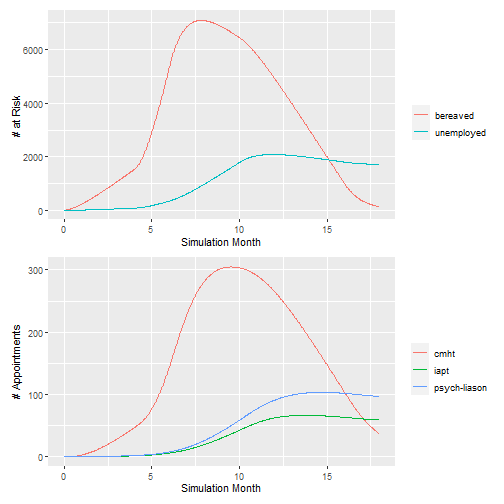
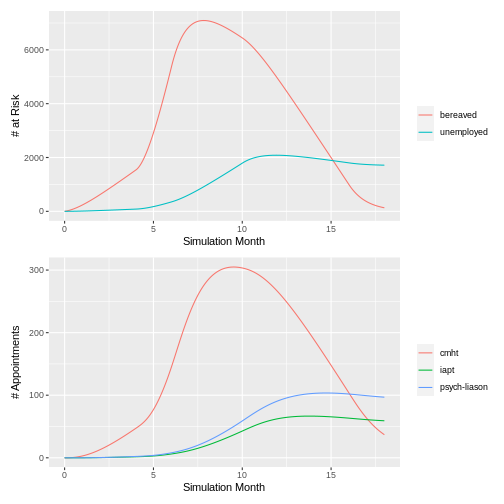
update Readme.md

diff --git a/Readme.md b/Readme.md
@@ -14,7 +14,20 @@ library(tidyverse, quietly = TRUE)
 ```
 
 ```
-## Error in library(tidyverse, quietly = TRUE): there is no package called 'tidyverse'
+## ── [1mAttaching packages[22m ─────────────────────────────────────── tidyverse 1.3.0 ──
+```
+
+```
+## [32m✔[39m [34mggplot2[39m 3.3.1     [32m✔[39m [34mpurrr  [39m 0.3.4
+## [32m✔[39m [34mtibble [39m 3.0.1     [32m✔[39m [34mdplyr  [39m 1.0.0
+## [32m✔[39m [34mtidyr  [39m 1.1.0     [32m✔[39m [34mstringr[39m 1.4.0
+## [32m✔[39m [34mreadr  [39m 1.3.1     [32m✔[39m [34mforcats[39m 0.5.0
+```
+
+```
+## ── [1mConflicts[22m ────────────────────────────────────────── tidyverse_conflicts() ──
+## [31m✖[39m [34mdplyr[39m::[32mfilter()[39m masks [34mstats[39m::filter()
+## [31m✖[39m [34mdplyr[39m::[32mlag()[39m    masks [34mstats[39m::lag()
 ```
 
 ```r
@@ -29,32 +42,13 @@ param_csv <- read_csv("sample_params.csv", col_types = "cccddddd") %>%
   unite(rowname, group:condition, sep = "_", na.rm = TRUE) %>%
   mutate_at("decay", ~half_life_factor(days, .x)) %>%
   select(-days)
-```
 
-```
-## Error in read_csv("sample_params.csv", col_types = "cccddddd") %>% unite(rowname, : could not find function "%>%"
-```
-
-```r
 params <- param_csv %>%
   select(pcnt:decay) %>%
   as.matrix() %>%
   t()
-```
-
-```
-## Error in param_csv %>% select(pcnt:decay) %>% as.matrix() %>% t(): could not find function "%>%"
-```
-
-```r
 colnames(params) <- param_csv$rowname
-```
 
-```
-## Error in eval(expr, envir, enclos): object 'param_csv' not found
-```
-
-```r
 # Simulated demand surges ----
 new_potential <- list(
   unemployed = approxfun(
@@ -71,18 +65,25 @@ new_potential <- list(
 
 # Run model ----
 o <- run_model(params, new_potential)
-```
 
-```
-## Error in run_model(params, new_potential): object 'params' not found
-```
-
-```r
 o
 ```
 
 ```
-## Error in eval(expr, envir, enclos): object 'o' not found
+## [90m# A tibble: 4,869 x 6[39m
+##      time type        group      treatment    condition   value
+##     [3m[90m<dbl>[39m[23m [3m[90m<chr>[39m[23m       [3m[90m<chr>[39m[23m      [3m[90m<chr>[39m[23m        [3m[90m<chr>[39m[23m       [3m[90m<dbl>[39m[23m
+## [90m 1[39m 0      no-mh-needs [31mNA[39m         [31mNA[39m           [31mNA[39m              0
+## [90m 2[39m 0      at-risk     bereaved   [31mNA[39m           [31mNA[39m              0
+## [90m 3[39m 0      at-risk     unemployed [31mNA[39m           [31mNA[39m              0
+## [90m 4[39m 0      treatment   bereaved   cmht         bereavement     0
+## [90m 5[39m 0      treatment   unemployed cmht         insomnia        0
+## [90m 6[39m 0      treatment   unemployed cmht         stress          0
+## [90m 7[39m 0      treatment   unemployed iapt         anxiety         0
+## [90m 8[39m 0      treatment   unemployed iapt         depression      0
+## [90m 9[39m 0      treatment   unemployed psych-liason suicide         0
+## [90m10[39m 0.033[4m3[24m no-mh-needs [31mNA[39m         [31mNA[39m           [31mNA[39m              0
+## [90m# … with 4,859 more rows[39m
 ```
 
 
@@ -95,13 +96,7 @@ p1 <- o %>%
   labs(x = "Simulation Month",
        y = "# at Risk",
        colour = "")
-```
 
-```
-## Error in o %>% filter(type == "at-risk") %>% ggplot(aes(time, value, colour = group)): could not find function "%>%"
-```
-
-```r
 p2 <- o %>%
   filter(type == "treatment") %>%
   group_by(time, treatment) %>%
@@ -117,16 +112,8 @@ p2 <- o %>%
   labs(x = "Simulation Month",
        y = "# Appointments",
        colour = "")
-```
 
-```
-## Error in o %>% filter(type == "treatment") %>% group_by(time, treatment) %>% : could not find function "%>%"
-```
-
-```r
 p1 + p2 + plot_layout(ncol = 1)
 ```
 
-```
-## Error in eval(expr, envir, enclos): object 'p1' not found
-```
+![plot of chunk model_sample_output](figure/model_sample_output-1.png)
